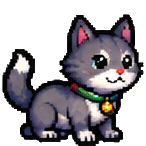
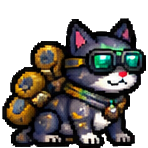
Skiny kota: Kot Nastolatek w goglach – różni się od Kociaka (v227)
Claude-Session: https://claude.ai/code/session_01XXanGnhjjnzsxd4etEsKKt

diff --git a/skins.js b/skins.js
@@ -56,7 +56,7 @@ function skinReveal(w, dup) {
   const ov = document.createElement('div'); ov.className = 'cos-ov rev r-' + w.r; ov.style.setProperty('--rc', SKIN_COL[w.r]);
   ov.innerHTML = `<div class="cos-rev card r-${w.r}">${big ? '<i class="cos-rays"></i>' : ''}
     <small class="cos-rar" style="color:${SKIN_COL[w.r]}">${SKIN_NAME[w.r].toUpperCase()} SKIN · ${esc(name)}</small>
-    ${(() => { const L = (['cat', 'dog'].includes(w.line) ? [0, 2, 3] : [0, 3]).map(f => skinSrc(w.line, f, w.r)); return `<div class="cos-big skin-big" style="grid-template-columns:repeat(${L.length},1fr)">${L.map(src => `<img class="skinpx" src="${src}" alt="">`).join('')}</div>`; })()}
+    ${(() => { const L = (w.line === 'cat' ? [0, 1, 3] : w.line === 'dog' ? [0, 2, 3] : [0, 3]).map(f => skinSrc(w.line, f, w.r)); return `<div class="cos-big skin-big" style="grid-template-columns:repeat(${L.length},1fr)">${L.map(src => `<img class="skinpx" src="${src}" alt="">`).join('')}</div>`; })()}
     <p class="small muted">Nowy wygląd postaci we wszystkich ewolucjach.${dup ? ` Masz już ten skin – <b>+${SKIN_DUP[w.r]} 💎</b>.` : ''}</p>
     <div class="row nowrap">${dup ? '' : `<button class="primary grow" data-act="skin-eq" data-l="${w.line}" data-r="${w.r}" data-close="1">${w.line === heroLine() ? 'Załóż' : 'OK'}</button>`}<button class="grow" data-act="skin-close">${dup ? 'OK' : 'Później'}</button></div></div>`;
   ov.addEventListener('click', e => { if (e.target === ov) ov.remove(); });

diff --git a/app.js b/app.js
@@ -10,7 +10,7 @@ const uid = () => Date.now().toString(36) + Math.random().toString(36).slice(2, 
 const esc = s => String(s ?? '').replace(/[&<>"']/g, c => ({ '&': '&amp;', '<': '&lt;', '>': '&gt;', '"': '&quot;', "'": '&#39;' }[c]));
 const fmt = s => esc(s).replace(/\n/g, '<br>');
 const MIN = 60e3, HOUR = 36e5, DAY = 864e5;
-const APP_VERSION = '226';   // podbijaj razem z CACHE w sw.js
+const APP_VERSION = '227';   // podbijaj razem z CACHE w sw.js
 const shuffle = a => { for (let i = a.length - 1; i > 0; i--) { const j = Math.random() * (i + 1) | 0; [a[i], a[j]] = [a[j], a[i]]; } return a; };
 const clamp = (v, a, b) => Math.max(a, Math.min(b, v));
 

diff --git a/sw.js b/sw.js
@@ -1,5 +1,5 @@
 // Offline: aplikacja działa bez internetu. Zmień numer wersji przy każdej aktualizacji plików.
-const CACHE = 'fiszki-v226';
+const CACHE = 'fiszki-v227';
 const ASSETS = ['./', 'index.html', 'styles.css', 'app.js', 'manifest.webmanifest',
   'icons/icon-192.png', 'icons/icon-512.png', 'icons/apple-touch-icon.png', 'assets/reakcja-kot.webp', 'assets/stickers/kot-zolnierz.webp', 'assets/stickers/kot-zolnierz-cut.webp'];
 
